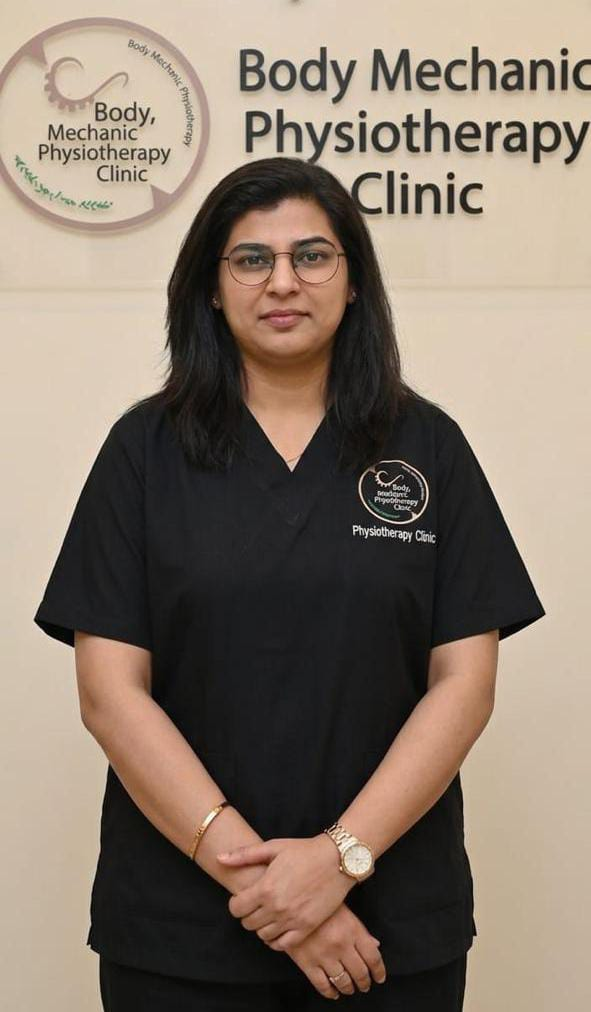
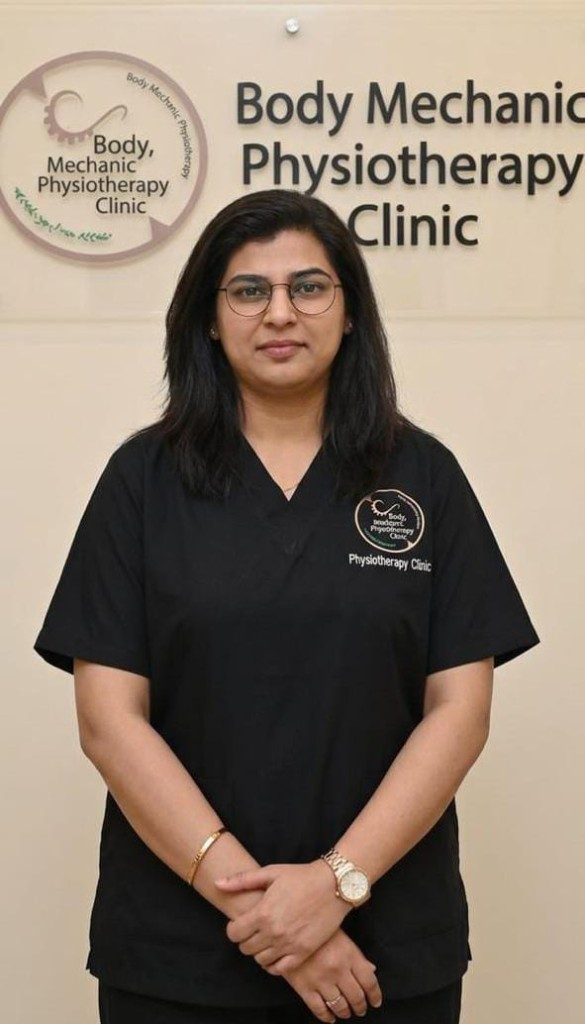
fix(about): show full Dr Saima portrait without cropping. Replace the Our Story hero photo and render it at natural aspect so the clinic wall branding stays visible.

diff --git a/app/(marketing)/about/page.tsx b/app/(marketing)/about/page.tsx
@@ -7,10 +7,18 @@ import FaqAccordionList from "@/components/ui/FaqAccordionList";
 import AboutJourney from "@/components/sections/AboutJourney";
 import { createPageMetadata } from "@/lib/seo";
 import { ASSETS } from "@/lib/assets";
-import { TEAM_MEMBERS, MISSION_VALUES, ACCREDITATIONS, ABOUT_FAQ_ITEMS } from "@/lib/constants";
+import {
+  TEAM_MEMBERS,
+  MISSION_VALUES,
+  ACCREDITATIONS,
+  ABOUT_FAQ_ITEMS,
+} from "@/lib/constants";
 import { Target, Lightbulb, Trophy, type LucideIcon } from "lucide-react";
 
-const MISSION_ICONS: Record<(typeof MISSION_VALUES)[number]["icon"], LucideIcon> = {
+const MISSION_ICONS: Record<
+  (typeof MISSION_VALUES)[number]["icon"],
+  LucideIcon
+> = {
   target: Target,
   lightbulb: Lightbulb,
   trophy: Trophy,
@@ -36,38 +44,44 @@ export default function AboutPage() {
               <span className="gradient-text">Evidence & Empathy</span>
             </h1>
             <p className="section-subtext font-sans">
-              Body Mechanic Physiotherapy Clinic opened its doors in Lahore in 2021, founded by
-              Dr. Saima Naseem PT, a sports physiotherapist whose earlier career took her from the
-              Tennis Federation of Pakistan to the Pakistan Cricket Board and international ITF
-              events. She built the clinic around one idea: bring the same athlete-grade
-              physiotherapy that keeps professional players match-fit to everyday patients across
-              Lahore.
+              Body Mechanic Physiotherapy Clinic opened its doors in Lahore in
+              2021, founded by Dr. Saima Naseem PT, a sports physiotherapist
+              whose earlier career took her from the Tennis Federation of
+              Pakistan to the Pakistan Cricket Board and international ITF
+              events. She built the clinic around one idea: bring the same
+              athlete-grade physiotherapy that keeps professional players
+              match-fit to everyday patients across Lahore.
             </p>
             <p className="mt-4 font-sans text-[1.0625rem] leading-relaxed text-text-2 sm:text-[1.125rem]">
-              From that first treatment room, Body Mechanic has grown into a full DPT-qualified
-              team, structured internship programmes in partnership with Riphah International
-              University, and regular professional workshops across Lahore and Islamabad. Along the
-              way we&apos;ve been recognised with the LAPS Award (Lahore Academy of Physical
-              Sciences, 2023) and a Shield of Appreciation from the MIS Institute (2024) for our
-              contribution to physiotherapy education, and, now four years on, the clinic is
+              From that first treatment room, Body Mechanic has grown into a
+              full DPT-qualified team, structured internship programmes in
+              partnership with Riphah International University, and regular
+              professional workshops across Lahore and Islamabad. Along the way
+              we&apos;ve been recognised with the LAPS Award (2023) and a Shield
+              of Appreciation from the MIS Institute (2024) for our contribution
+              to physiotherapy education, and, now four years on, the clinic is
               still growing.
             </p>
             <p className="mt-4 font-sans text-[1.0625rem] leading-relaxed text-text-2 sm:text-[1.125rem]">
-              Today, Body Mechanic is one of Lahore&apos;s most trusted physiotherapy destinations
-              for sports rehabilitation, chronic pain relief, and long-term wellness care. The
-              values from day one still hold: evidence-based assessment, honest treatment plans
-              with clear timelines, and warm, patient-first care, no referral needed to start.
+              Today, Body Mechanic is one of Lahore&apos;s most trusted
+              physiotherapy destinations for sports rehabilitation, chronic pain
+              relief, and long-term wellness care. The values from day one still
+              hold: evidence-based assessment, honest treatment plans with clear
+              timelines, and warm, patient-first care, no referral needed to
+              start.
             </p>
           </AnimateOnScroll>
 
           <AnimateOnScroll delay={0.1}>
-            <div className="relative mx-auto aspect-[3/4] w-full max-w-sm overflow-hidden rounded-2xl bg-bg-section shadow-[0_16px_40px_-12px_rgba(0,0,0,0.12)] lg:max-w-md">
+            <div className="relative mx-auto w-full max-w-sm overflow-hidden rounded-2xl bg-bg-section shadow-[0_16px_40px_-12px_rgba(0,0,0,0.12)] lg:max-w-md">
               <ClinicImage
                 src={ASSETS.clinic.aboutHero}
                 alt="Dr. Saima Naseem PT at Body Mechanic Physiotherapy Clinic in Lahore"
-                fill
+                width={585}
+                height={1024}
                 sizes="(max-width: 1024px) 90vw, 28rem"
-                className="object-contain object-center"
+                objectFit="contain"
+                className="h-auto w-full"
                 priority
               />
             </div>
@@ -84,7 +98,12 @@ export default function AboutPage() {
               <AnimateOnScroll key={item.title} delay={i * 0.1}>
                 <div className="card-light p-7 md:p-8 h-full text-center">
                   <div className="w-12 h-12 rounded-xl bg-brand-pink-light border border-border-pink flex items-center justify-center mx-auto mb-4">
-                    <Icon size={22} strokeWidth={2} className="text-brand-pink" aria-hidden="true" />
+                    <Icon
+                      size={22}
+                      strokeWidth={2}
+                      className="text-brand-pink"
+                      aria-hidden="true"
+                    />
                   </div>
                   <h3 className="font-bold text-base sm:text-lg mb-3 font-display text-brand-pink">
                     {item.title}
@@ -120,7 +139,11 @@ export default function AboutPage() {
 
         <div className="grid grid-cols-1 items-start justify-items-center gap-5 sm:grid-cols-2 lg:grid-cols-4 lg:gap-6">
           {TEAM_MEMBERS.filter((m) => !m.featured).map((member, i) => (
-            <AnimateOnScroll key={member.name} delay={i * 0.08} className="w-full max-w-sm">
+            <AnimateOnScroll
+              key={member.name}
+              delay={i * 0.08}
+              className="w-full max-w-sm"
+            >
               <TeamMemberCard member={member} />
             </AnimateOnScroll>
           ))}

diff --git a/lib/constants/about.ts b/lib/constants/about.ts
@@ -137,7 +137,7 @@ export const JOURNEY_MILESTONES: JourneyMilestone[] = [
       },
       {
         src: "/images/journey/2023-laps.jpg",
-        alt: "Dr. Saima Naseem receiving the LAPS Award from the Lahore Academy of Physical Sciences",
+        alt: "Dr. Saima Naseem receiving the LAPS Award",
       },
     ],
   },
